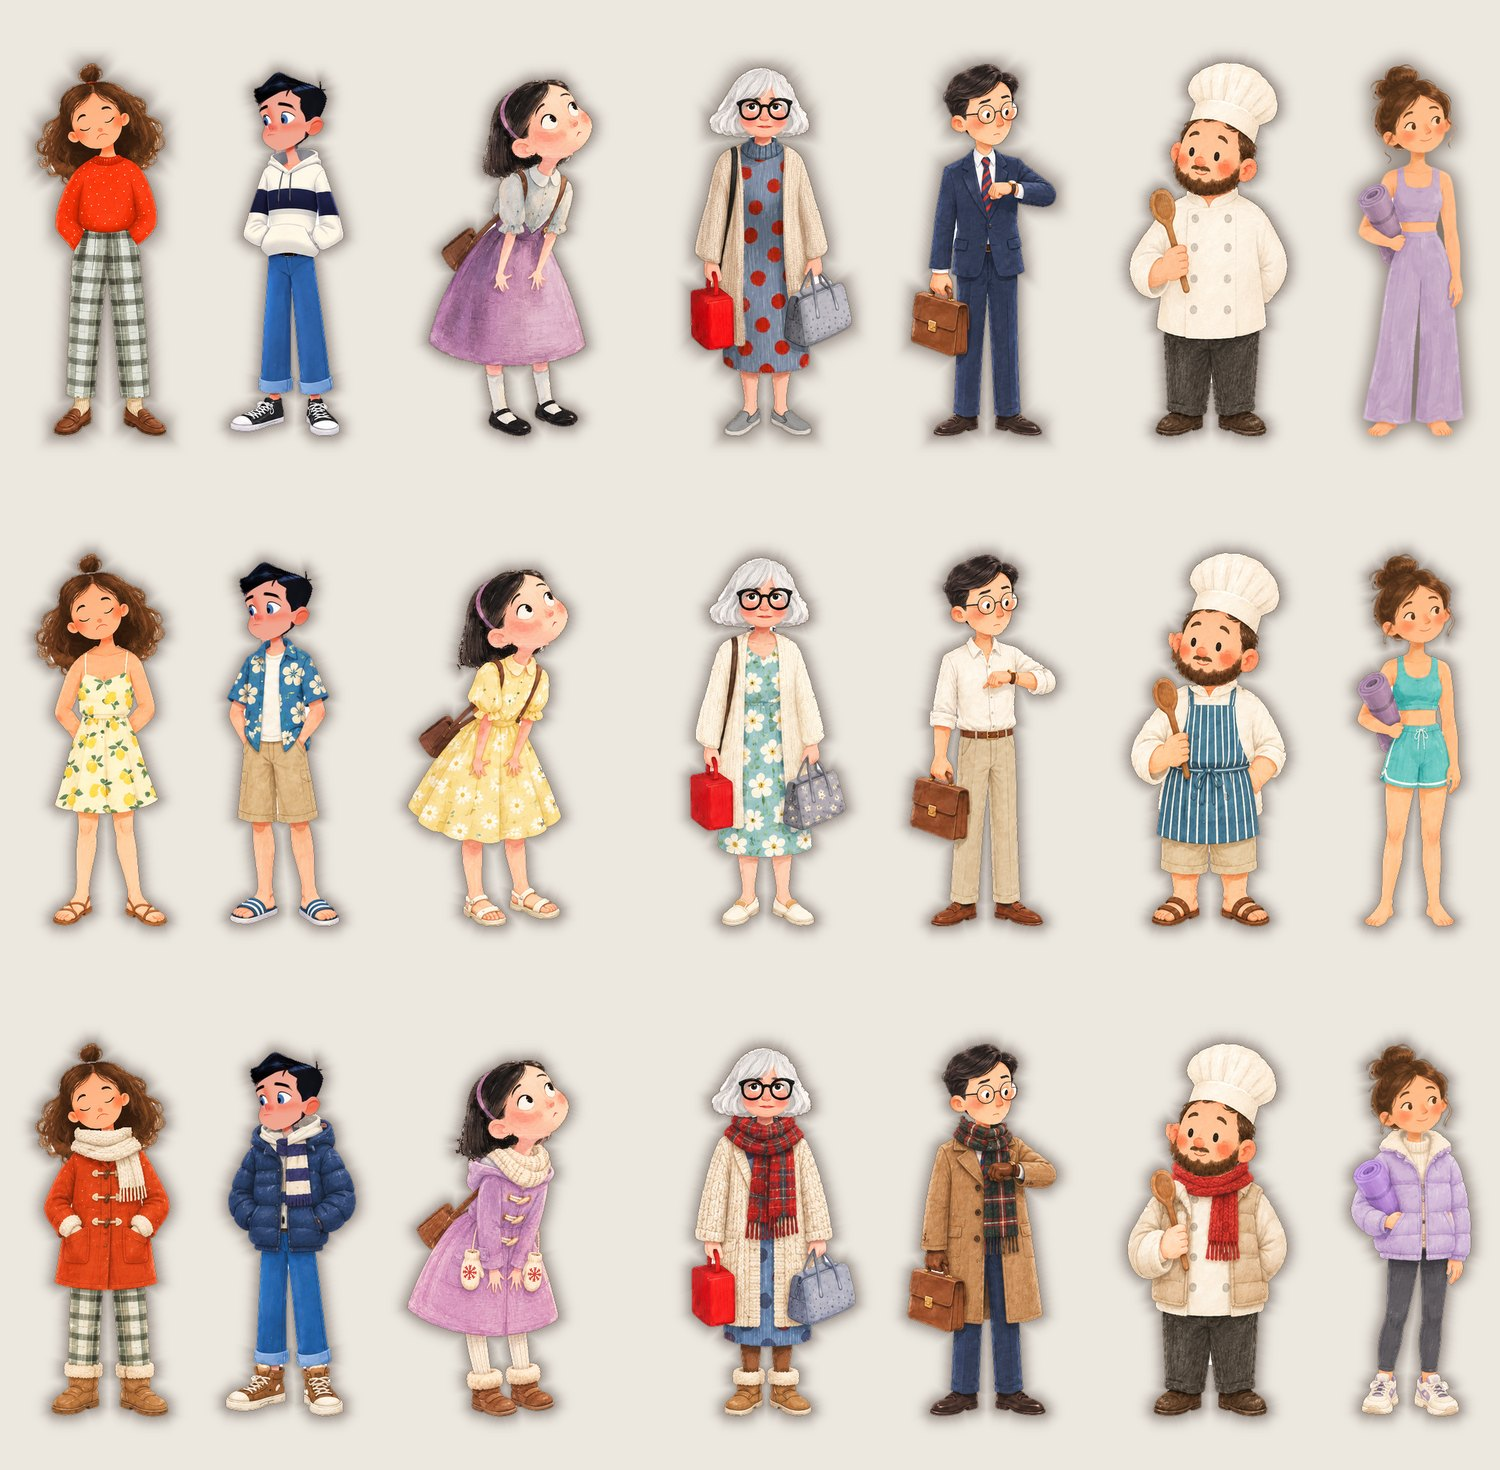
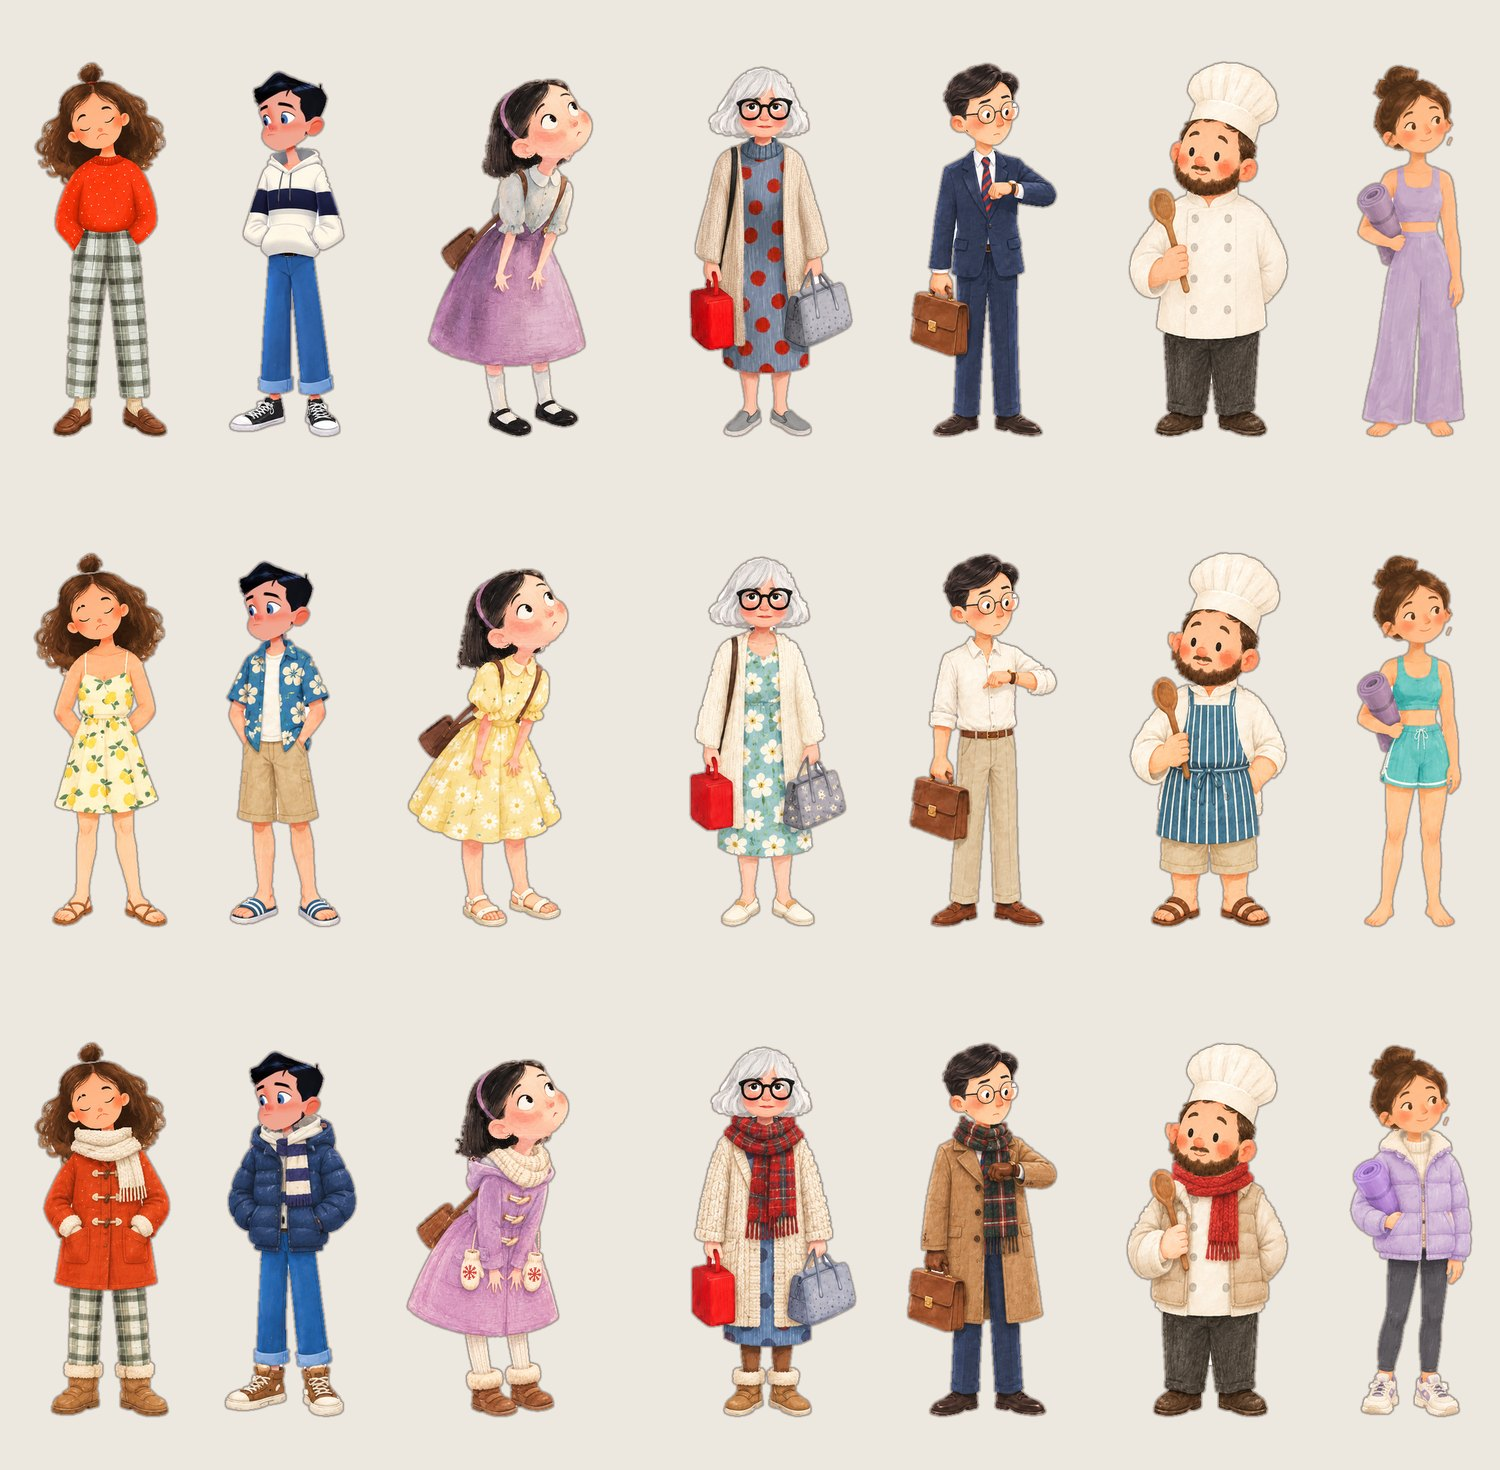
Report: all customers with the S2 edge in three outfits; old customer, edge, Boy, note and bubble cards removed

diff --git a/Docs/tools/report_page/index.html b/Docs/tools/report_page/index.html
@@ -74,18 +74,23 @@ h3 small{font-weight:600;color:var(--soft);font-size:13px;margin-left:6px}
 <h2 id="next"><span class="n">1</span>Next</h2>
 <div class="grid">
 <div class="who p1"><h3>You</h3>
-<p><b>To do:</b> say "set the prices" in chat for the lower Remove Ads prices (your tick is noted; store changes need it in chat).</p>
-<p><b>To pick:</b> a hanging night light (1 to 5); the inside cabin room (1 or 2) and its pink cloth (a or b); the edge around the customers (S1 to S4, top of Current); the C chapter colours (A, B or C).</p>
-<p><b>To look at:</b> the tutorial note in the game; the Kid and Yoga fixes in the outfits.</p>
+<p><b>To do:</b> say "set the prices" in chat for the lower Remove Ads prices.</p>
+<p><b>To pick:</b> the inside cabin room (1 or 2); the C chapter colours (A, B or C).</p>
+<p><b>To look at:</b> all customers with the S2 edge in their three outfits (top of Current).</p>
 </div>
 <div class="who p2"><h3>Me</h3>
-<p>Waiting on your picks.</p>
+<p>Night lights built per chapter (mushroom, rattan, fairy lights) as a 3-star shop item with a cute card. The tutorial at night. A little drop at the top of every tablecloth. Chapter 3: a shorter table, more floor with café tables, new cloth textures.</p>
 <p>Everything in MVP is done on main and waits for the next test build. Say when you want one.</p>
 </div>
 </div>
 
 <h2 id="current"><span class="n">2</span>Current</h2>
 <p class="sub" style="margin:0 0 8px">26 November: ads, the shop page, and what is left of the game review.</p>
+<div class="card">
+<p style="margin-top:0"><b>All customers now: S2 edge, regular, beach and winter.</b> <small>The thin soft contour (S2) instead of the dark glow, on every sprite; the Boy with his jaw and chin fixed; Kid and Chef with the smaller heads (Chef slimmer and taller); the Kid and Yoga fixes. Rows: regular (the game today, chapter 1), beach (chapter 2), winter (chapter 3). Waiting, then happy.</small></p>
+<figure style="margin:8px 0"><img src="rev25/outfits_overview.jpg" alt="All seven customers in regular, beach and winter outfits, waiting, with the thin soft contour" style="width:100%;max-height:none;height:auto"><figcaption><b>1</b> waiting</figcaption></figure><figure style="margin:8px 0"><img src="rev25/outfits_overview_happy.jpg" alt="The same, happy" style="width:100%;max-height:none;height:auto"><figcaption><b>2</b> happy</figcaption></figure><p style="font-size:14px">In the game today: S2 on all seven (waiting and happy), on main. Not in the game yet: the beach and winter outfits, and the smaller Kid and Chef heads in the regular row (they wait for your yes). Beach and winter happy sprites keep the outfit's waiting pose with the happy face.</p>
+<ul class="checks"><li><label><input type="checkbox" data-id="cur.cust28.seen"> <span>Seen, remove this</span></label></li><li><label><input type="checkbox" data-id="cur.cust28.outfits"> <span>Put beach in chapter 2 and winter in chapter 3</span></label></li><li><label><input type="checkbox" data-id="cur.cust28.kidchef"> <span>Use the smaller Kid and Chef heads in the regular row too</span></label></li><li><label><input type="checkbox" data-id="cur.cust28.gestures"> <span>Get the happy gestures for beach and winter (ChatGPT)</span></label></li><li><label><input type="checkbox" data-id="cur.cust28.some"> <span>Some need changes (tell me)</span></label></li></ul>
+</div>
 <div class="card">
 <p style="margin-top:0"><b>A light hanging from the top that drops when night comes: five styles.</b> <small>By day it is out of sight above the screen. At night it lowers on its cord with a little bounce and swing, flickers on and fades in; the table gets a warm pool brightest in its upper middle, fading gradually, the front staying dark, and a soft glow over the customers near it. It hangs just under the top buttons so it never covers an order bubble. Preview only; my own paintings for now.</small></p>
 <div class="two"><figure style="margin:8px 0"><img src="rev25/hang_drop.gif" alt="The mushroom pendant drops on its cord at night and switches on" style="height:560px;max-height:560px;width:auto"><figcaption><b>the drop</b> (mushroom pendant)</figcaption></figure></div>
@@ -99,29 +104,9 @@ h3 small{font-weight:600;color:var(--soft);font-size:13px;margin-left:6px}
 <ul class="checks"><li><label><input type="checkbox" data-id="cur.cabinin.seen"> <span>Seen, remove this</span></label></li><li><label><input type="checkbox" data-id="cur.cabinin.r1"> <span>Room 1</span></label></li><li><label><input type="checkbox" data-id="cur.cabinin.r2"> <span>Room 2</span></label></li><li><label><input type="checkbox" data-id="cur.cabinin.a"> <span>Pink gingham</span></label></li><li><label><input type="checkbox" data-id="cur.cabinin.b"> <span>Pink stripes</span></label></li><li><label><input type="checkbox" data-id="cur.cabinin.more"> <span>More changes (tell me)</span></label></li></ul>
 </div>
 <div class="card">
-<p style="margin-top:0"><b>The shadow around the customers: four other styles.</b> <small>In the game, the same moment in each style (each row, left to right: <b>0</b> today's soft dark glow, <b>S1</b> no glow, <b>S2</b> a thin soft dark line, <b>S3</b> a cream sticker outline with a small shadow, <b>S4</b> a very faint wide glow). Faces and hair stay your original pixels.</small></p>
-<figure style="margin:8px 0"><img src="rev25/edge_sheet.jpg" alt="The Girl in all five styles side by side" style="width:100%;max-height:none;height:auto"><figcaption>the Girl: today, S1, S2, S3, S4</figcaption></figure><figure style="margin:8px 0"><img src="rev25/edges_c1.jpg" alt="Chapter 1: the Chef and the Girl in the five styles" style="width:100%;max-height:none;height:auto"><figcaption>chapter 1</figcaption></figure><figure style="margin:8px 0"><img src="rev25/edges_c2.jpg" alt="Chapter 2: the Grandma, the Boy and the yoga lady in the five styles" style="width:100%;max-height:none;height:auto"><figcaption>chapter 2</figcaption></figure><figure style="margin:8px 0"><img src="rev25/edges_night.jpg" alt="Chapter 1 at night in the five styles" style="width:100%;max-height:none;height:auto"><figcaption>night</figcaption></figure><ul>
-<li><b>S1</b> is the cleanest; faces and hair read best, the people sit a little flatter in the painting.</li>
-<li><b>S2</b> is nearly S1 with a faint drawn line that keeps them clear on bright backgrounds (my pick).</li>
-<li><b>S3</b> matches the stickers and cookies but looks pasted on, and wavy around curly or white hair (I would smooth it if you pick it).</li>
-<li><b>S4</b> looks like S1 with a barely visible glow; its shadow under the feet never shows, because the table hides the feet.</li>
-</ul>
-<ul class="checks"><li><label><input type="checkbox" data-id="cur.edge.seen"> <span>Seen, remove this</span></label></li><li><label><input type="checkbox" data-id="cur.edge.s1"> <span>S1</span></label></li><li><label><input type="checkbox" data-id="cur.edge.s2"> <span>S2</span></label></li><li><label><input type="checkbox" data-id="cur.edge.s3"> <span>S3</span></label></li><li><label><input type="checkbox" data-id="cur.edge.s4"> <span>S4</span></label></li><li><label><input type="checkbox" data-id="cur.edge.keep"> <span>Keep today's</span></label></li></ul>
-</div>
-<div class="card">
-<p style="margin-top:0"><b>Tutorial: the order bubble sits over the customer again.</b> <small>With one customer the bubble stayed at the scene's fixed place, which looked far away once the bubble got smaller; now it sits right above her head like with two customers. On main.</small></p>
-<div class="two"><figure style="margin:8px 0"><img src="rev25/tutbubble_phone.jpg" alt="iPhone tutorial: the bubble right above the Girl" style="height:520px;max-height:520px;width:auto"><figcaption>iPhone</figcaption></figure><figure style="margin:8px 0"><img src="rev25/tutbubble_ipad.jpg" alt="iPad tutorial" style="height:520px;max-height:520px;width:auto"><figcaption>iPad</figcaption></figure></div>
-<ul class="checks"><li><label><input type="checkbox" data-id="cur.tutbub.seen"> <span>Seen, remove this</span></label></li></ul>
-</div>
-<div class="card">
 <p style="margin-top:0"><b>Tutorial note: butter yellow, your pick, now in the game.</b> <small>Every tutorial banner uses it. Next for the App Store pictures: all iPhone and iPad screenshots with this note as drafts first; uploading needs your yes.</small></p>
 <figure style="margin:8px 0"><img src="rev25/paper_2.jpg" alt="Butter yellow note in the game: tutorial, menu lesson, arranging" style="width:100%;max-height:none;height:auto"><figcaption>butter yellow in the game</figcaption></figure><div class="two"><figure style="margin:8px 0"><img src="rev25/store_p0.jpg" alt="Store screenshots today" style="height:520px;max-height:520px;width:auto"><figcaption>store today</figcaption></figure><figure style="margin:8px 0"><img src="rev25/store_p2.jpg" alt="Store screenshots with the butter yellow note" style="height:520px;max-height:520px;width:auto"><figcaption>store with the butter note (draft)</figcaption></figure></div>
 <ul class="checks"><li><label><input type="checkbox" data-id="cur.paper2.seen"> <span>Seen, remove this</span></label></li><li><label><input type="checkbox" data-id="cur.paper2.store"> <span>Make all store screenshots with it (drafts)</span></label></li></ul>
-</div>
-<div class="card">
-<p style="margin-top:0"><b>Boy: the dark line on his jaw and the muddy strip under his chin are gone.</b> <small>Both were leftover pixels from the head paste; they now blend into the soft glow. Fixed in the game's waiting sprite and his beach and winter sprites. Before (left) and after (right).</small></p>
-<div class="two"><figure style="margin:8px 0"><img src="rev25/boy_jaw.jpg" alt="The jaw line before and after" style="height:380px;max-height:380px;width:auto"><figcaption>right of the jaw</figcaption></figure><figure style="margin:8px 0"><img src="rev25/boy_chin.jpg" alt="Under the chin before and after" style="height:380px;max-height:380px;width:auto"><figcaption>under the chin</figcaption></figure></div>
-<ul class="checks"><li><label><input type="checkbox" data-id="cur.boyjaw2.seen"> <span>Seen, remove this</span></label></li></ul>
 </div>
 <div class="card">
 <p style="margin-top:0"><b>Prices by country: lower Remove Ads in the Philippines, Indonesia and Vietnam.</b> <small>Read from App Store Connect today. Our only priced item is Remove Ads. Only the US price is set by hand ($ 1.99); every other country gets Apple's automatic conversion, taxes included.</small></p>
@@ -135,17 +120,6 @@ h3 small{font-weight:600;color:var(--soft);font-size:13px;margin-left:6px}
 <li><b>Your yes (the tick) is noted, but not done yet:</b> my safety check blocks store changes when the yes comes from a report tick. Say "set the prices" in chat and I set them at once, or set them yourself in App Store Connect (Remove Ads, Pricing).</li>
 </ul>
 <ul class="checks"><li><label><input type="checkbox" data-id="cur.price27.seen"> <span>Seen, remove this</span></label></li><li><label><input type="checkbox" data-id="cur.price27.yes"> <span>Yes: set the suggested prices</span></label></li><li><label><input type="checkbox" data-id="cur.price27.careful"> <span>Yes, the careful step</span></label></li><li><label><input type="checkbox" data-id="cur.price27.no"> <span>Not now</span></label></li></ul>
-</div>
-<div class="card">
-<p style="margin-top:0"><b>Tutorial note built into the game: your taped note with animation c.</b> <small>Every tutorial banner is now the note (the day 1 tutorial, the kitchen steps, the menu lesson, "Drag to arrange your table" and the kitchen version). It slides in with the flutter when it newly shows; new words on a note already up just change. On iPad the menu lesson note now sits above Done instead of covering it. On main.</small></p>
-<div class="two"><figure style="margin:8px 0"><img src="rev25/notebuilt.gif" alt="The note sliding in after the menu closes: Drag to arrange your table" style="height:520px;max-height:520px;width:auto"><figcaption><b>1</b> sliding in</figcaption></figure><figure style="margin:8px 0"><img src="rev25/notebuilt_tutorial.jpg" alt="Day 1 tutorial: She wants a coffee and a bread" style="height:520px;max-height:520px;width:auto"><figcaption><b>2</b> tutorial</figcaption></figure><figure style="margin:8px 0"><img src="rev25/notebuilt_kitchen_tut.jpg" alt="Tutorial in the kitchen: Fruits grow here, tap to pick them!" style="height:520px;max-height:520px;width:auto"><figcaption><b>3</b> tutorial, kitchen</figcaption></figure><figure style="margin:8px 0"><img src="rev25/notebuilt_menu.jpg" alt="Menu lesson note under the menu" style="height:520px;max-height:520px;width:auto"><figcaption><b>4</b> menu lesson</figcaption></figure><figure style="margin:8px 0"><img src="rev25/notebuilt_arrange.jpg" alt="Drag to arrange your table" style="height:520px;max-height:520px;width:auto"><figcaption><b>5</b> arranging</figcaption></figure><figure style="margin:8px 0"><img src="rev25/notebuilt_kitchen.jpg" alt="Drag to arrange your kitchen" style="height:520px;max-height:520px;width:auto"><figcaption><b>6</b> kitchen</figcaption></figure><figure style="margin:8px 0"><img src="rev25/notebuilt_ipad.jpg" alt="iPad: the menu lesson note above Done" style="height:520px;max-height:520px;width:auto"><figcaption><b>7</b> iPad</figcaption></figure></div>
-<ul class="checks"><li><label><input type="checkbox" data-id="cur.notebuilt.seen"> <span>Seen, remove this</span></label></li><li><label><input type="checkbox" data-id="cur.notebuilt.change"> <span>Changes (tell me)</span></label></li></ul>
-</div>
-<div class="card">
-<p style="margin-top:0"><b>All customers: regular, beach (chapter 2), winter (chapter 3).</b> <small>Cut out for the game. Every face and head is your original pixels; everyone stands at the same height and spot as today. The Chef is a little slimmer and taller (94 % wide, 106 % tall) with his head at 88 %, the Kid's head at 85 %, in all three rows (picture 3 shows today, the last try and now). Rows top to bottom: regular, beach, winter.</small></p>
-<figure style="margin:8px 0"><img src="rev25/outfits_overview.jpg" alt="Seven customers in three rows: regular clothes, beach clothes, winter clothes, waiting" style="width:100%;max-height:none;height:auto"><figcaption><b>1</b> waiting</figcaption></figure><figure style="margin:8px 0"><img src="rev25/outfits_overview_happy.jpg" alt="The same three rows, happy: in the regular row the Boy, Kid, Businessman, Chef and Yoga lady have happy gestures; in beach and winter they keep the waiting pose with the happy face" style="width:100%;max-height:none;height:auto"><figcaption><b>2</b> happy</figcaption></figure><figure style="margin:8px 0"><img src="rev25/kid_chef_heads.jpg" alt="Kid and Chef, waiting: today, the last try, and now with smaller heads" style="width:100%;max-height:none;height:auto"><figcaption><b>3</b> Kid and Chef: today, last try, now</figcaption></figure><figure style="margin:8px 0"><img src="rev25/kid_yoga_fix.jpg" alt="Kid and Yoga sprites before and after the fix: the Yoga lady's happy head moved onto her neck, the Kid's stray hair tufts removed" style="width:100%;max-height:none;height:auto"><figcaption><b>4</b> fixed: the Yoga lady's happy head sat 21 px right of her neck (beach and winter); the Kid had leftover ChatGPT hair tufts and a loose wisp. Before and after.</figcaption></figure>
-<p style="font-size:14px">One difference to decide: today's happy sprites of the Boy (hands at the chest), Kid (arms out), Businessman (thumbs up), Chef (waving) and Yoga lady (palms together) have their own gesture. In beach and winter they keep the waiting pose with the happy face, since ChatGPT drew one body each. ChatGPT can draw the happy gestures too (its free pictures come back tomorrow 3:30 PM).</p>
-<ul class="checks"><li><label><input type="checkbox" data-id="cur.outfit27.seen"> <span>Seen, remove this</span></label></li><li><label><input type="checkbox" data-id="cur.outfit27.good"> <span>All good: put beach in chapter 2 and winter in chapter 3</span></label></li><li><label><input type="checkbox" data-id="cur.outfit27.gestures"> <span>Also get the happy gestures for beach and winter</span></label></li><li><label><input type="checkbox" data-id="cur.outfit27.everyday"> <span>Use the slimmer Chef and the Kid's smaller head in the regular outfits too (chapter 1)</span></label></li><li><label><input type="checkbox" data-id="cur.outfit27.some"> <span>Some need changes (tell me who and what)</span></label></li></ul>
 </div>
 <div class="card">
 <p style="margin-top:0"><b>Your store test today: what helps most.</b> <small>The store copy is 2026.11.24. A new game is the most useful: it walks the first days, where players leave. Your phone is left out of the player counts; afterwards I read your session and compare it with what you tick here.</small></p>
@@ -204,6 +178,7 @@ h3 small{font-weight:600;color:var(--soft);font-size:13px;margin-left:6px}
 <li>Tutorial: the order bubble sits over the customer.</li>
 <li>Tutorial note in butter yellow.</li>
 <li>Boy: the muddy strip under his chin removed.</li>
+<li>Customers: a thin soft contour instead of the dark glow (S2).</li>
 </ol>
 
 <h2 id="backlog"><span class="n">4</span>Backlog</h2>
